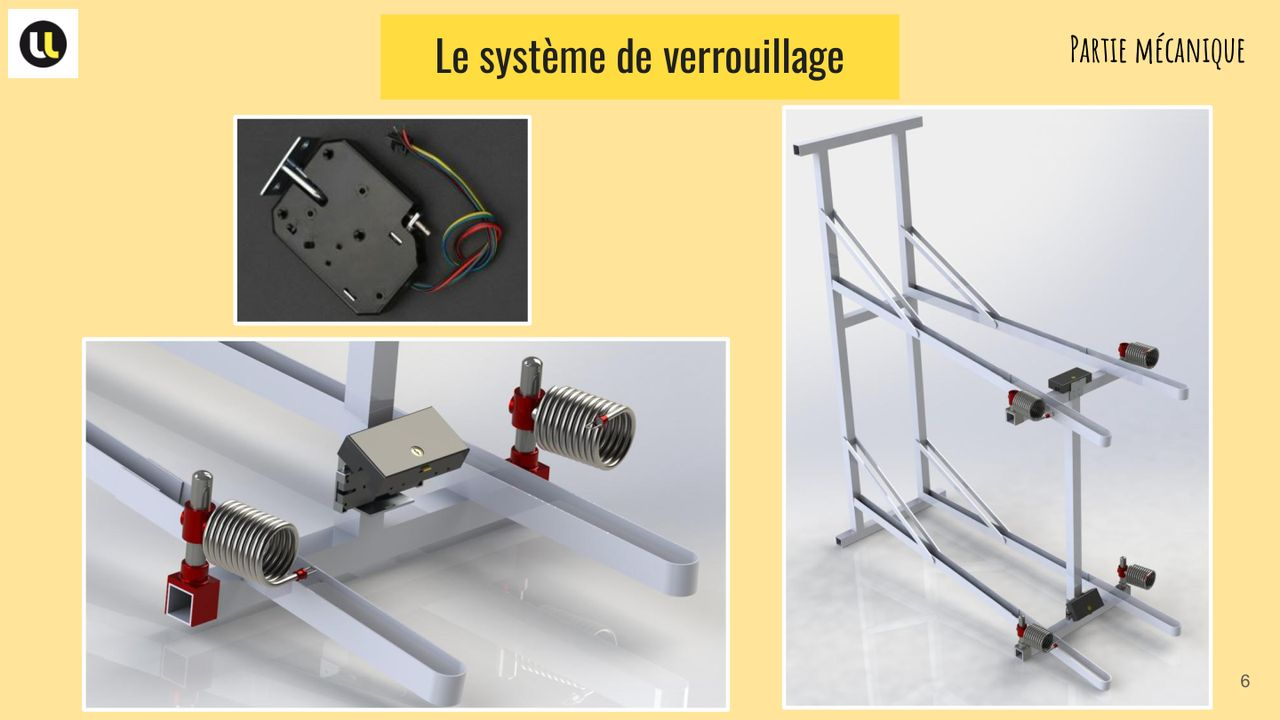
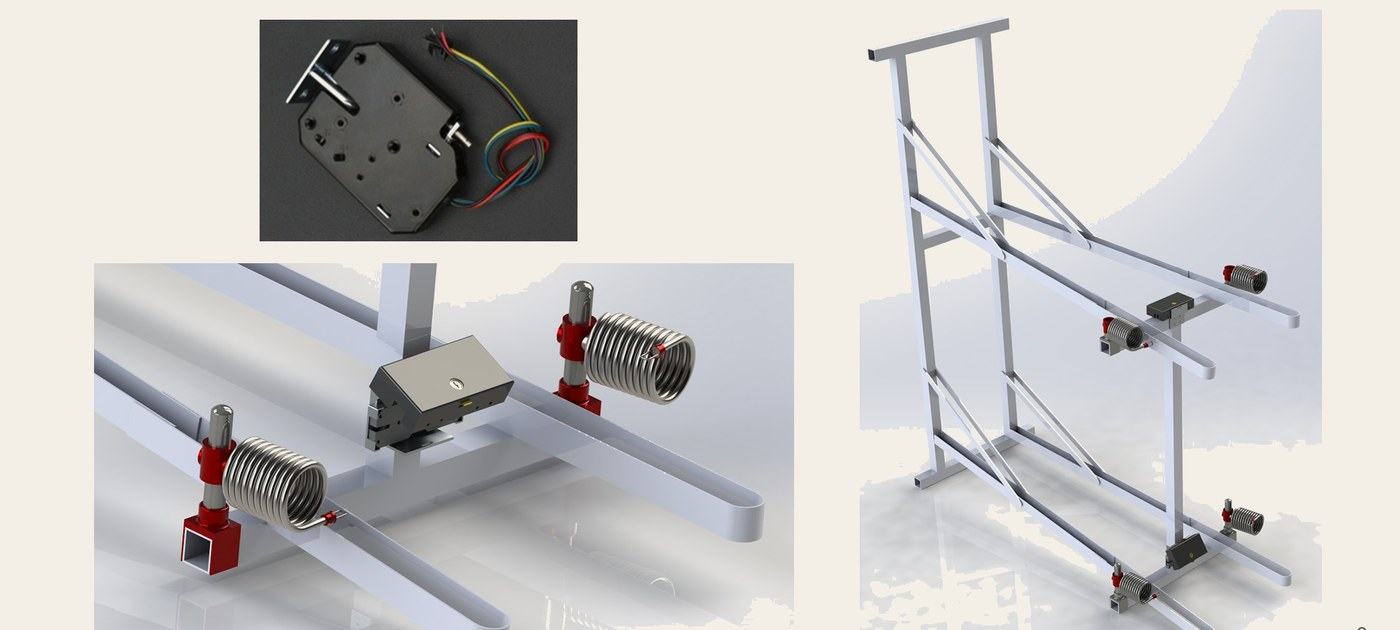
Restyle slides to site palette and move deep diagrams to appendix.

diff --git a/bike-shelter.html b/bike-shelter.html
@@ -101,6 +101,11 @@
           <h2 data-fr>Le problème, la réponse</h2>
           <h2 data-en>The problem, the answer</h2>
         </div>
+        <div class="project-mark">
+          <img src="./images/bike-shelter/ll-logo.jpg" width="64" height="64" alt="Projet Université de Lorraine / ENSEM" />
+          <p data-fr>Projet Université de Lorraine · ENSEM</p>
+          <p data-en>University of Lorraine · ENSEM project</p>
+        </div>
         <div class="about-grid">
           <div>
             <p data-fr>
@@ -209,28 +214,14 @@
     <figure class="media-band media-band-doc">
       <img
         src="./images/bike-shelter/slides/slide-11.jpg"
-        width="1280"
-        height="720"
-        alt="Website map showing Brabois ingénieur with free spots"
+        width="1400"
+        height="630"
+        alt="Carte des abris vélos avec places libres"
         loading="lazy"
       />
       <figcaption class="rail">
-        <span data-fr>Site : carte interactive, places libres actualisées, lien Google Maps.</span>
-        <span data-en>Website: interactive map, live free spots, Google Maps link.</span>
-      </figcaption>
-    </figure>
-
-    <figure class="media-band media-band-doc">
-      <img
-        src="./images/bike-shelter/explain.jpg"
-        width="1200"
-        height="675"
-        alt="Explanatory sign: how to lock and unlock a bike with the student card"
-        loading="lazy"
-      />
-      <figcaption class="rail">
-        <span data-fr>Panneau d’usage : verrouillage / déverrouillage au badge, LED jaune → verte.</span>
-        <span data-en>Usage sign: lock / unlock with badge, yellow → green LED.</span>
+        <span data-fr>Sur le téléphone : la carte, l’abri le plus proche, les places libres.</span>
+        <span data-en>On the phone: the map, nearest shelter, free spots.</span>
       </figcaption>
     </figure>
 
@@ -240,13 +231,13 @@
         <div class="section-head">
           <p class="eyebrow" data-fr>05 · Système</p>
           <p class="eyebrow" data-en>05 · System</p>
-          <h2 data-fr>Architecture générale</h2>
-          <h2 data-en>General architecture</h2>
+          <h2 data-fr>Du verrou au site</h2>
+          <h2 data-en>From lock to website</h2>
           <p class="lede tight" data-fr>
-            Le schéma clé : verrou → Arduino → XBee → Raspberry Pi → site / BDD / vérification CSN.
+            Chaîne complète : serrure, Arduino, radio XBee, Raspberry Pi, puis vérification CSN et mise à jour des places.
           </p>
           <p class="lede tight" data-en>
-            The key diagram: lock → Arduino → XBee → Raspberry Pi → website / DB / CSN check.
+            Full chain: lock, Arduino, XBee radio, Raspberry Pi, then CSN check and free-spot updates.
           </p>
         </div>
         <ul class="stack-row">
@@ -263,29 +254,15 @@
       <a href="./images/bike-shelter/slides/slide-13.jpg" target="_blank" rel="noopener noreferrer">
         <img
           src="./images/bike-shelter/slides/slide-13.jpg"
-          width="1600"
-          height="900"
-          alt="Architecture générale — Verrou, Arduino, XBee, Raspberry Pi, site et vérification CSN"
+          width="1400"
+          height="630"
+          alt="Architecture : verrou, Arduino, XBee, Raspberry Pi, site et vérification CSN"
           loading="lazy"
         />
       </a>
       <figcaption class="rail">
-        <span data-fr>Slide 13 — Architecture générale (partie informatique). Cliquer pour agrandir.</span>
-        <span data-en>Slide 13 — General architecture (IT). Click to enlarge.</span>
-      </figcaption>
-    </figure>
-
-    <figure class="media-band">
-      <img
-        src="./images/bike-shelter/slides/slide-10.jpg"
-        width="1280"
-        height="720"
-        alt="General system diagram: solar, Pi, XBee modules, web server"
-        loading="lazy"
-      />
-      <figcaption class="rail">
-        <span data-fr>Diagramme général : énergie, Pi, modules, serveur web.</span>
-        <span data-en>System diagram: power, Pi, modules, web server.</span>
+        <span data-fr>Schéma d’architecture — cliquer pour agrandir.</span>
+        <span data-en>Architecture diagram — click to enlarge.</span>
       </figcaption>
     </figure>
 
@@ -298,10 +275,10 @@
           <h2 data-fr>Sous le capot</h2>
           <h2 data-en>Under the hood</h2>
           <p class="lede tight" data-fr>
-            Procédure de sécurisation, logiques Pi / Arduino, prototype matériel.
+            Procédure badge, puis le banc de test matériel.
           </p>
           <p class="lede tight" data-en>
-            Lock procedure, Pi / Arduino logic, hardware prototype.
+            Badge procedure, then the hardware test bench.
           </p>
         </div>
       </div>
@@ -309,7 +286,7 @@
         <div class="slide-stage">
           <button type="button" class="slide-nav slide-prev" data-slide-prev aria-label="Previous">‹</button>
           <figure class="slide-frame">
-            <img data-slide-img src="./images/bike-shelter/slides/slide-12.jpg" width="1280" height="720" alt="" />
+            <img data-slide-img src="./images/bike-shelter/slides/slide-12.jpg" width="1400" height="630" alt="" />
             <figcaption><span data-slide-cap></span></figcaption>
           </figure>
           <button type="button" class="slide-nav slide-next" data-slide-next aria-label="Next">›</button>
@@ -317,20 +294,6 @@
         <div class="slide-dots" data-slide-dots role="tablist" aria-label="Tech slides"></div>
       </div>
     </section>
-
-    <figure class="media-band">
-      <img
-        src="./images/bike-shelter/logic.jpg"
-        width="1400"
-        height="787"
-        alt="Flowcharts: Raspberry Pi coordinator and Arduino XBee routers"
-        loading="lazy"
-      />
-      <figcaption class="rail">
-        <span data-fr>Logique détaillée : Pi (CSN, places, site) et Arduino (LED, buzzer, éjection).</span>
-        <span data-en>Detailed logic: Pi (CSN, spots, site) and Arduino (LED, buzzer, eject).</span>
-      </figcaption>
-    </figure>
 
     <div class="rail">
       <section class="section" id="hardware">
@@ -392,13 +355,54 @@
     </div>
 
     <div class="rail">
-      <section class="section contact">
+      <section class="section contact" id="more">
         <div class="section-head">
-          <p class="eyebrow" data-fr>Liens</p>
-          <p class="eyebrow" data-en>Links</p>
+          <p class="eyebrow" data-fr>Annexe</p>
+          <p class="eyebrow" data-en>Appendix</p>
           <h2 data-fr>Aller plus loin</h2>
           <h2 data-en>Go further</h2>
+          <p class="lede tight" data-fr>
+            Schémas détaillés, diagramme système et panneau d’instructions — pour qui veut creuser.
+          </p>
+          <p class="lede tight" data-en>
+            Detailed flowcharts, system diagram and instruction sign — for those who want to dig deeper.
+          </p>
         </div>
+      </section>
+    </div>
+
+    <div class="more-docs">
+      <article class="more-doc">
+        <h3 data-fr>Logique Pi &amp; Arduino</h3>
+        <h3 data-en>Pi &amp; Arduino logic</h3>
+        <p data-fr>Organigrammes coordinateur et routeurs : CSN, LED, buzzer, places libres.</p>
+        <p data-en>Coordinator and router flowcharts: CSN, LED, buzzer, free spots.</p>
+        <a href="./images/bike-shelter/logic.jpg" target="_blank" rel="noopener noreferrer">
+          <img src="./images/bike-shelter/logic.jpg" width="1400" height="787" alt="Organigrammes Raspberry Pi et Arduino" loading="lazy" />
+        </a>
+      </article>
+      <article class="more-doc">
+        <h3 data-fr>Diagramme système</h3>
+        <h3 data-en>System diagram</h3>
+        <p data-fr>Énergie solaire, Pi, modules XBee, APIs et téléphone.</p>
+        <p data-en>Solar power, Pi, XBee modules, APIs and phone.</p>
+        <a href="./images/bike-shelter/slides/slide-10.jpg" target="_blank" rel="noopener noreferrer">
+          <img src="./images/bike-shelter/slides/slide-10.jpg" width="1400" height="630" alt="Diagramme système complet" loading="lazy" />
+        </a>
+      </article>
+      <article class="more-doc">
+        <h3 data-fr>Panneau d’instructions</h3>
+        <h3 data-en>Instruction sign</h3>
+        <p data-fr>Texte affiché à l’abri : verrouiller / déverrouiller au badge.</p>
+        <p data-en>On-shelter copy: lock / unlock with the badge.</p>
+        <a href="./images/bike-shelter/explain.jpg" target="_blank" rel="noopener noreferrer">
+          <img src="./images/bike-shelter/explain.jpg" width="1200" height="675" alt="Panneau explicatif verrouillage" loading="lazy" />
+        </a>
+      </article>
+    </div>
+
+    <div class="rail">
+      <section class="section">
         <div class="contact-row">
           <a class="contact-item" href="https://www.youtube.com/watch?v=XbfNqrZFiaw" rel="noopener noreferrer" target="_blank" data-fr>Vidéo</a>
           <a class="contact-item" href="https://www.youtube.com/watch?v=XbfNqrZFiaw" rel="noopener noreferrer" target="_blank" data-en>Video</a>
@@ -425,14 +429,14 @@
     (function () {
       var sets = {
         design: [
-          { src: "./images/bike-shelter/slides/slide-03.jpg", fr: "Structure globale", en: "Overall structure" },
-          { src: "./images/bike-shelter/slides/slide-04.jpg", fr: "Structure in situ", en: "Structure on site" },
-          { src: "./images/bike-shelter/slides/slide-05.jpg", fr: "Rangement double niveau", en: "Two-tier storage" },
-          { src: "./images/bike-shelter/slides/slide-06.jpg", fr: "Système de verrouillage", en: "Locking system" },
-          { src: "./images/bike-shelter/slides/slide-07.jpg", fr: "Plan · 16 vélos · 594 × 390 cm", en: "Plan · 16 bikes · 594 × 390 cm" }
+          { src: "./images/bike-shelter/slides/slide-03.jpg", fr: "L’abri Brabois — structure bois et panneaux solaires", en: "Brabois shelter — timber structure and solar panels" },
+          { src: "./images/bike-shelter/slides/slide-04.jpg", fr: "Implanté sur le campus", en: "Sited on campus" },
+          { src: "./images/bike-shelter/slides/slide-05.jpg", fr: "Racks double niveau", en: "Two-tier racks" },
+          { src: "./images/bike-shelter/slides/slide-06.jpg", fr: "Mécanisme de verrouillage", en: "Locking mechanism" },
+          { src: "./images/bike-shelter/slides/slide-07.jpg", fr: "Emprise · 16 places · 594 × 390 cm", en: "Footprint · 16 spots · 594 × 390 cm" }
         ],
         tech: [
-          { src: "./images/bike-shelter/slides/slide-12.jpg", fr: "Procédure de sécurisation", en: "Lock / unlock procedure" }
+          { src: "./images/bike-shelter/slides/slide-12.jpg", fr: "Badge : verrouiller, puis déverrouiller", en: "Badge: lock, then unlock" }
         ]
       };
 
@@ -485,7 +489,7 @@
           if (e.isIntersecting) e.target.classList.add("in");
         });
       }, { threshold: 0.08 });
-      document.querySelectorAll(".section, .media-band, .gallery, .slides-section, .video-section").forEach(function (el) {
+      document.querySelectorAll(".section, .media-band, .gallery, .slides-section, .video-section, .more-docs, .arch-feature").forEach(function (el) {
         el.classList.add("reveal");
         io.observe(el);
       });

diff --git a/site.css b/site.css
@@ -1137,7 +1137,7 @@ main {
 
 .slide-frame {
   margin: 0;
-  background: #f7f1d8;
+  background: var(--paper);
   outline: 1px solid var(--line);
   overflow: hidden;
 }
@@ -1148,7 +1148,7 @@ main {
   height: auto;
   aspect-ratio: 16 / 9;
   object-fit: contain;
-  background: #f7f1d8;
+  background: var(--paper);
 }
 
 .slide-frame figcaption {
@@ -1225,10 +1225,67 @@ main {
   padding-top: 1.1rem;
 }
 
+.project-mark {
+  display: flex;
+  align-items: center;
+  gap: 0.85rem;
+  margin: 0 0 1.75rem;
+}
+
+.project-mark img {
+  display: block;
+  width: 2.75rem;
+  height: 2.75rem;
+  border-radius: 0.35rem;
+  outline: 1px solid var(--line);
+}
+
+.project-mark p {
+  margin: 0;
+  font-size: 0.92rem;
+  font-weight: 600;
+  color: var(--ink-soft);
+}
+
 .arch-feature {
   margin: 0 0 1.5rem;
-  background: #f7f1d8;
+  background: var(--paper);
   border-block: 1px solid var(--line);
+}
+
+.more-docs {
+  max-width: var(--max);
+  margin: 0 auto;
+  padding: 0 var(--pad) 1rem;
+  display: grid;
+  gap: 2rem;
+}
+
+.more-doc h3 {
+  margin: 0 0 0.35rem;
+  font-family: var(--display);
+  font-size: 1.25rem;
+  letter-spacing: -0.02em;
+}
+
+.more-doc p {
+  margin: 0 0 0.85rem;
+  color: var(--ink-soft);
+  max-width: 36rem;
+}
+
+.more-doc a {
+  display: block;
+  color: inherit;
+  text-decoration: none;
+}
+
+.more-doc img {
+  display: block;
+  width: 100%;
+  height: auto;
+  background: var(--paper);
+  outline: 1px solid var(--line);
 }
 
 .arch-feature a {
